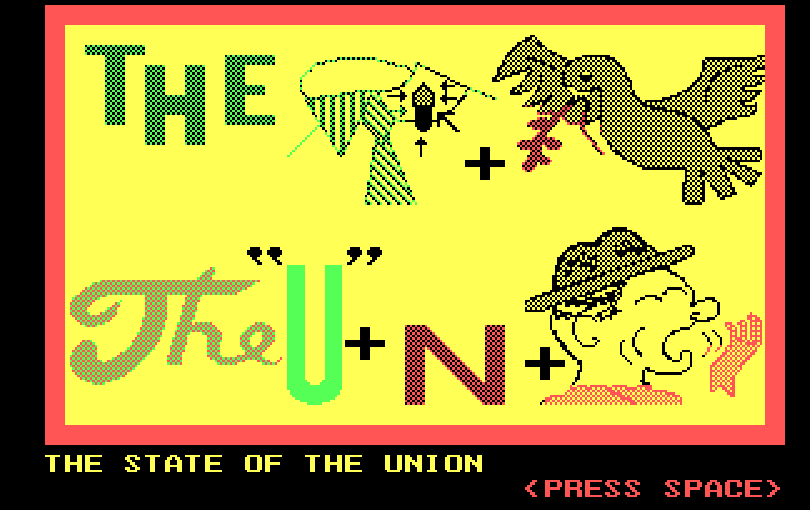
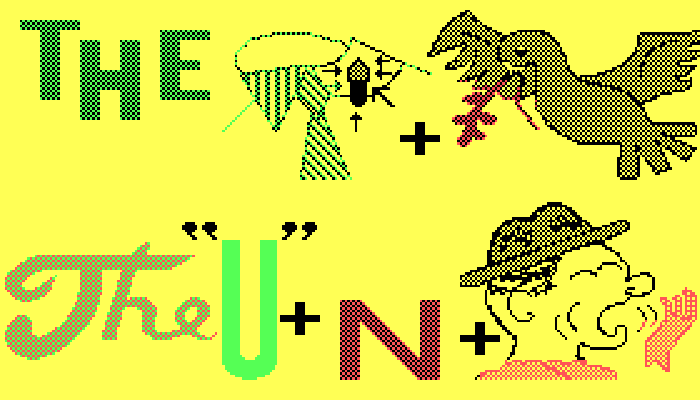
Refactored Rebus Puzzle to use img node instead of background image

diff --git a/www/js/index.js b/www/js/index.js
@@ -226,13 +226,13 @@ function selectMatch(notWildPanel)
 
 function onDeviceReady()
 {
-    var playArea = document.getElementById('playArea');
-    var container = document.createElement("div");
-    container.id = "rebusPuzzle";
-    container.classList.add("container", "p-0", "h-100");
-    container.style.backgroundImage = "url('" + PuzzleManager.SelectPuzzle() + "')";
-    container.addEventListener("click", onPlayAreaClicked);
-    playArea.appendChild(container);
+    var playArea = document.getElementById("playArea");
+    // container.style.backgroundImage = "url('" +  + "')";
+    playArea.addEventListener("click", onPlayAreaClicked);
+    
+    var puzzleUrl = PuzzleManager.SelectPuzzle();
+    var puzzleNode = document.getElementById("rebusPuzzle");
+    puzzleNode.src = puzzleUrl;
     
     var prizePool = PrizeManager.GeneratePrizePool(11, 2, 2);
     
@@ -240,7 +240,7 @@ function onDeviceReady()
     {
         var row = document.createElement("div");
         row.classList.add("row", "h-20", "m-0");
-        container.appendChild(row);
+        playArea.appendChild(row);
         for (var colIndex = 0; colIndex < 5; ++colIndex)
         {
             var id = rowIndex * 5 + colIndex;

diff --git a/www/index.html b/www/index.html
@@ -42,7 +42,11 @@
             <div class="safeArea">
                 <div id="playScene" class="scene container-fluid vh-100">
                     <div id="playAreaContainer" class="row h-85">
-                        <div id="playArea" class="col"></div>
+                        <div class="col">
+                            <div id="playArea" class="p-0 h-100 position-relative">
+                                <img id="rebusPuzzle" />
+                            </div>
+                        </div>
                     </div>
                     <div id="playText" class="row h-15"></div>
                 </div>

diff --git a/www/css/index.css b/www/css/index.css
@@ -89,8 +89,11 @@ body
 
 #rebusPuzzle
 {
-    background-repeat: no-repeat;
-    background-size: 100% 100%;
+    position: absolute;
+    left: 0px;
+    top: 0px;
+    width: 100%;
+    height: 100%;
 }
 
 .puzzlePanel
@@ -98,6 +101,7 @@ body
     background-color: #ff5555;
     font-size: 2em;
     color: #55ff55;
+    height: 100%;
 }
 
 .puzzlePanelUnselected
@@ -105,6 +109,7 @@ body
     width: 100%;
     height: 100%;
     position: relative;
+    background-color: #ff5555;
     padding: 1.75%!important;
     display: block;
 }
